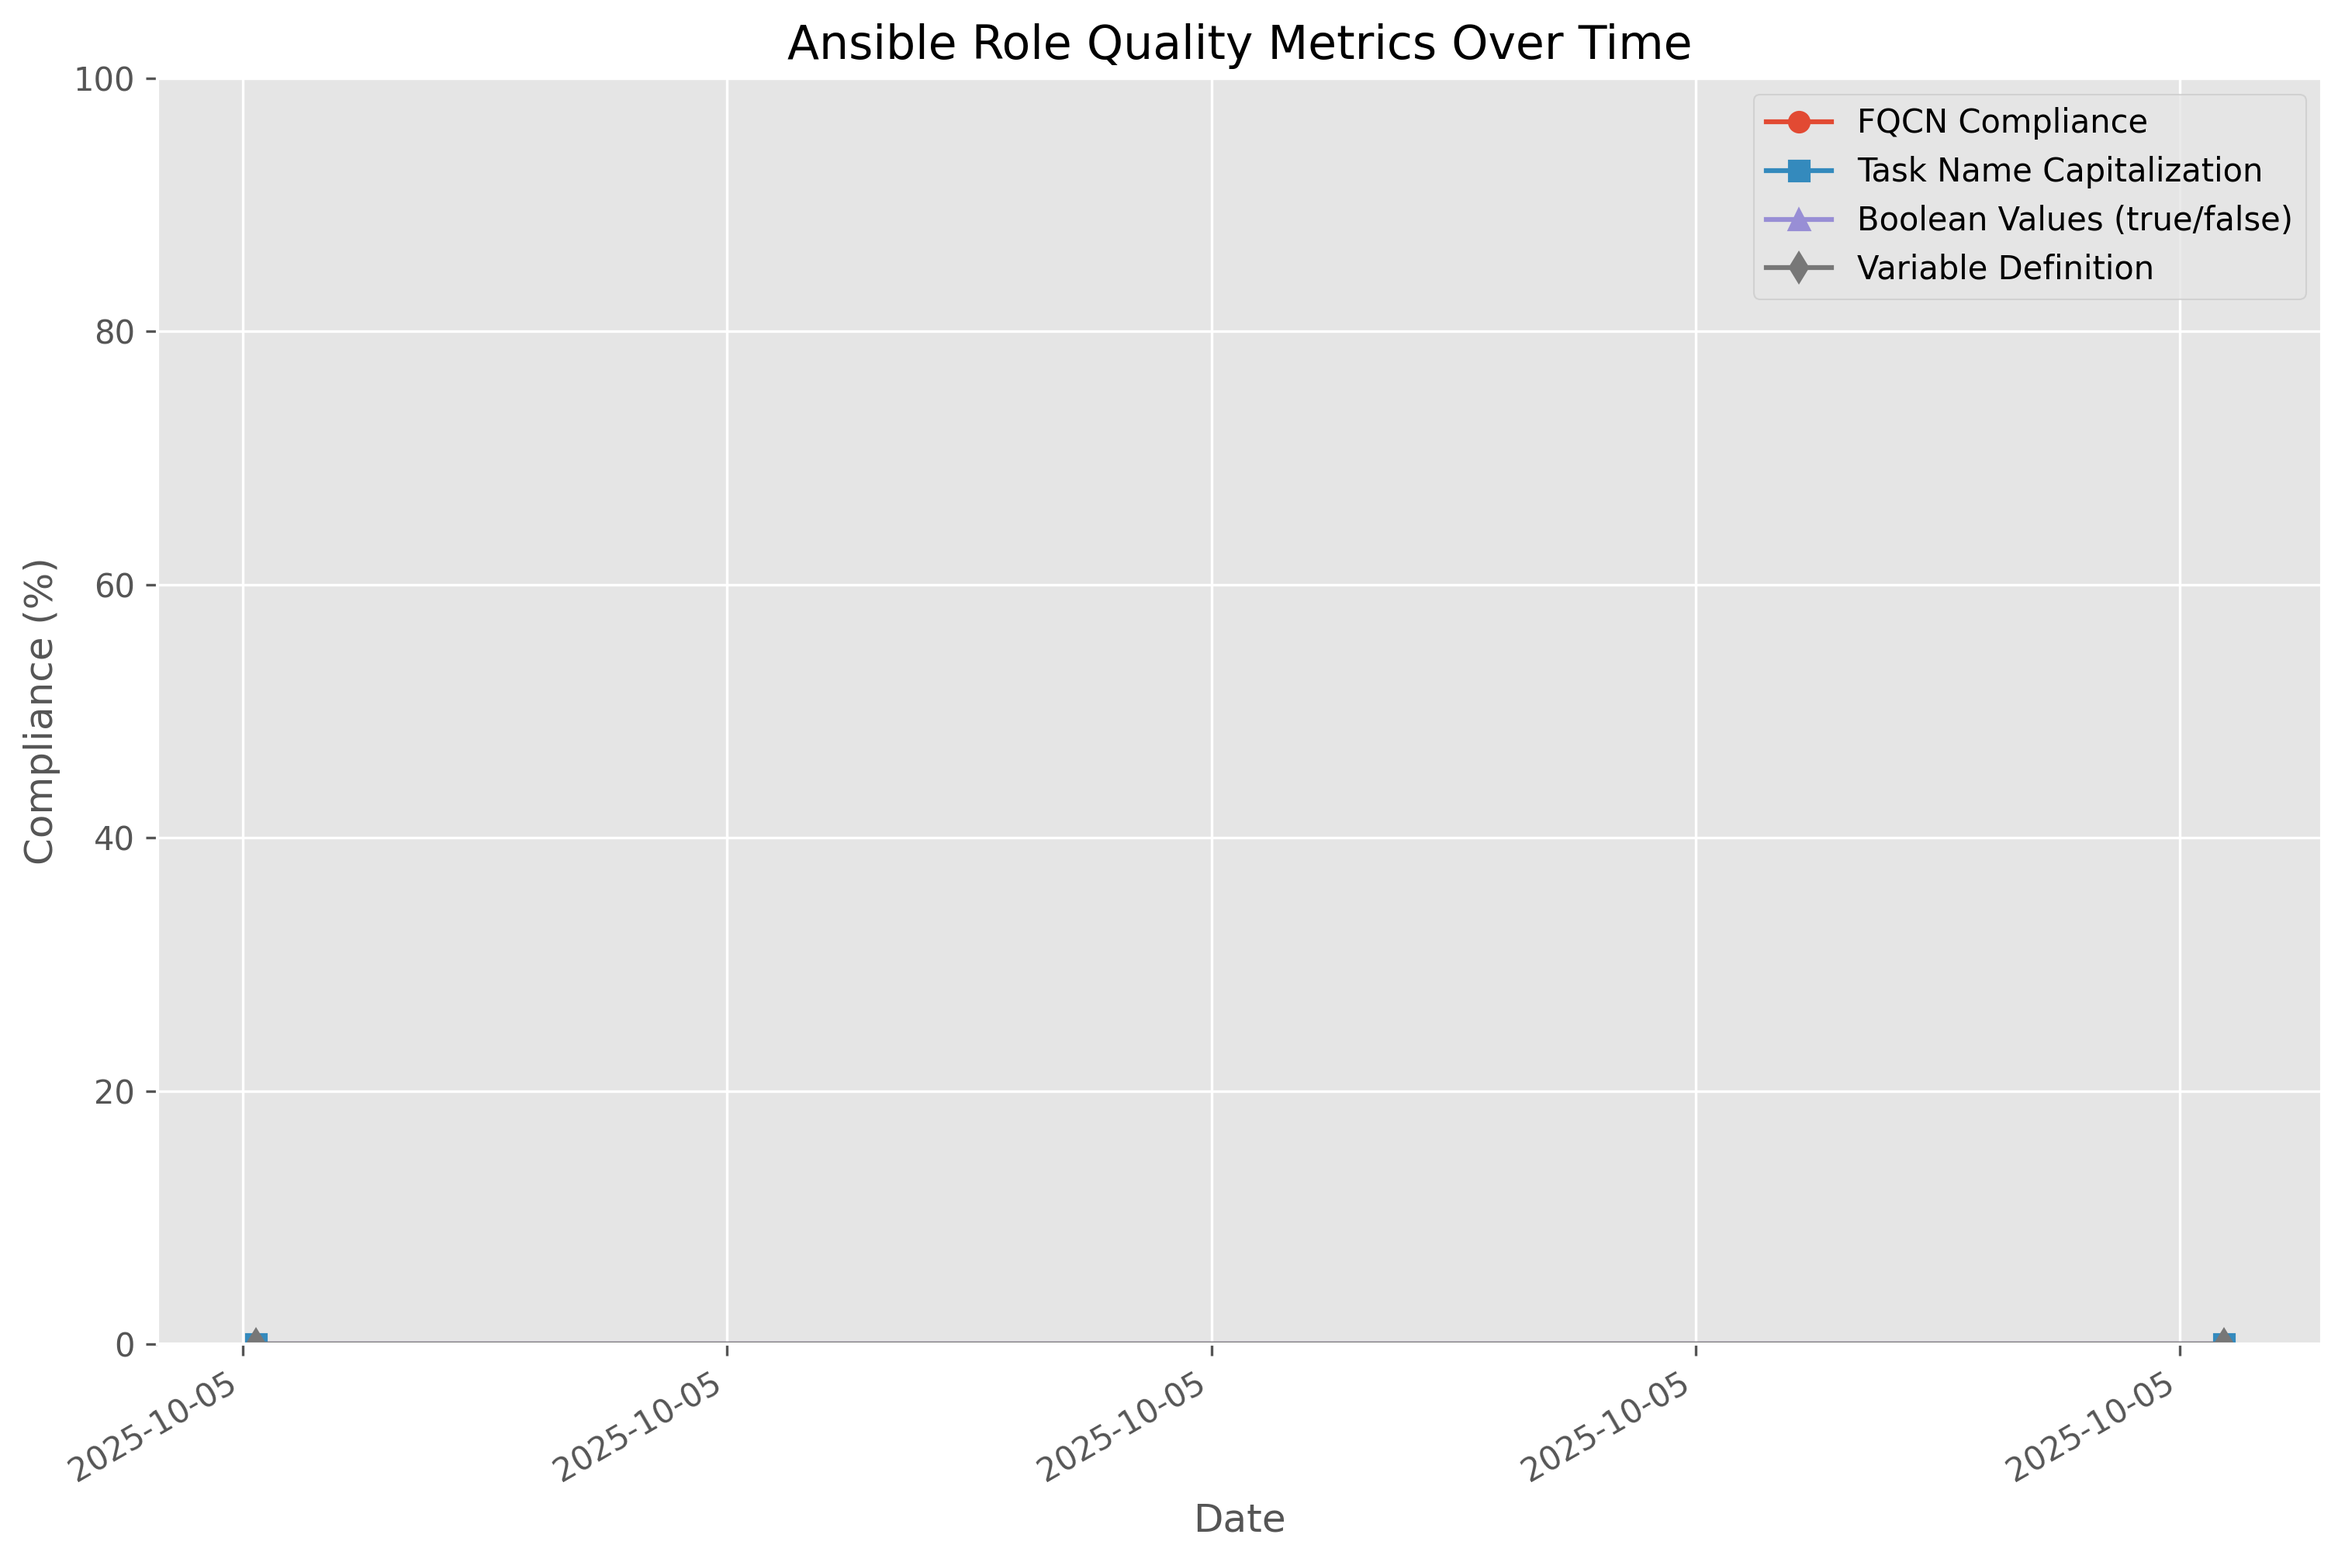
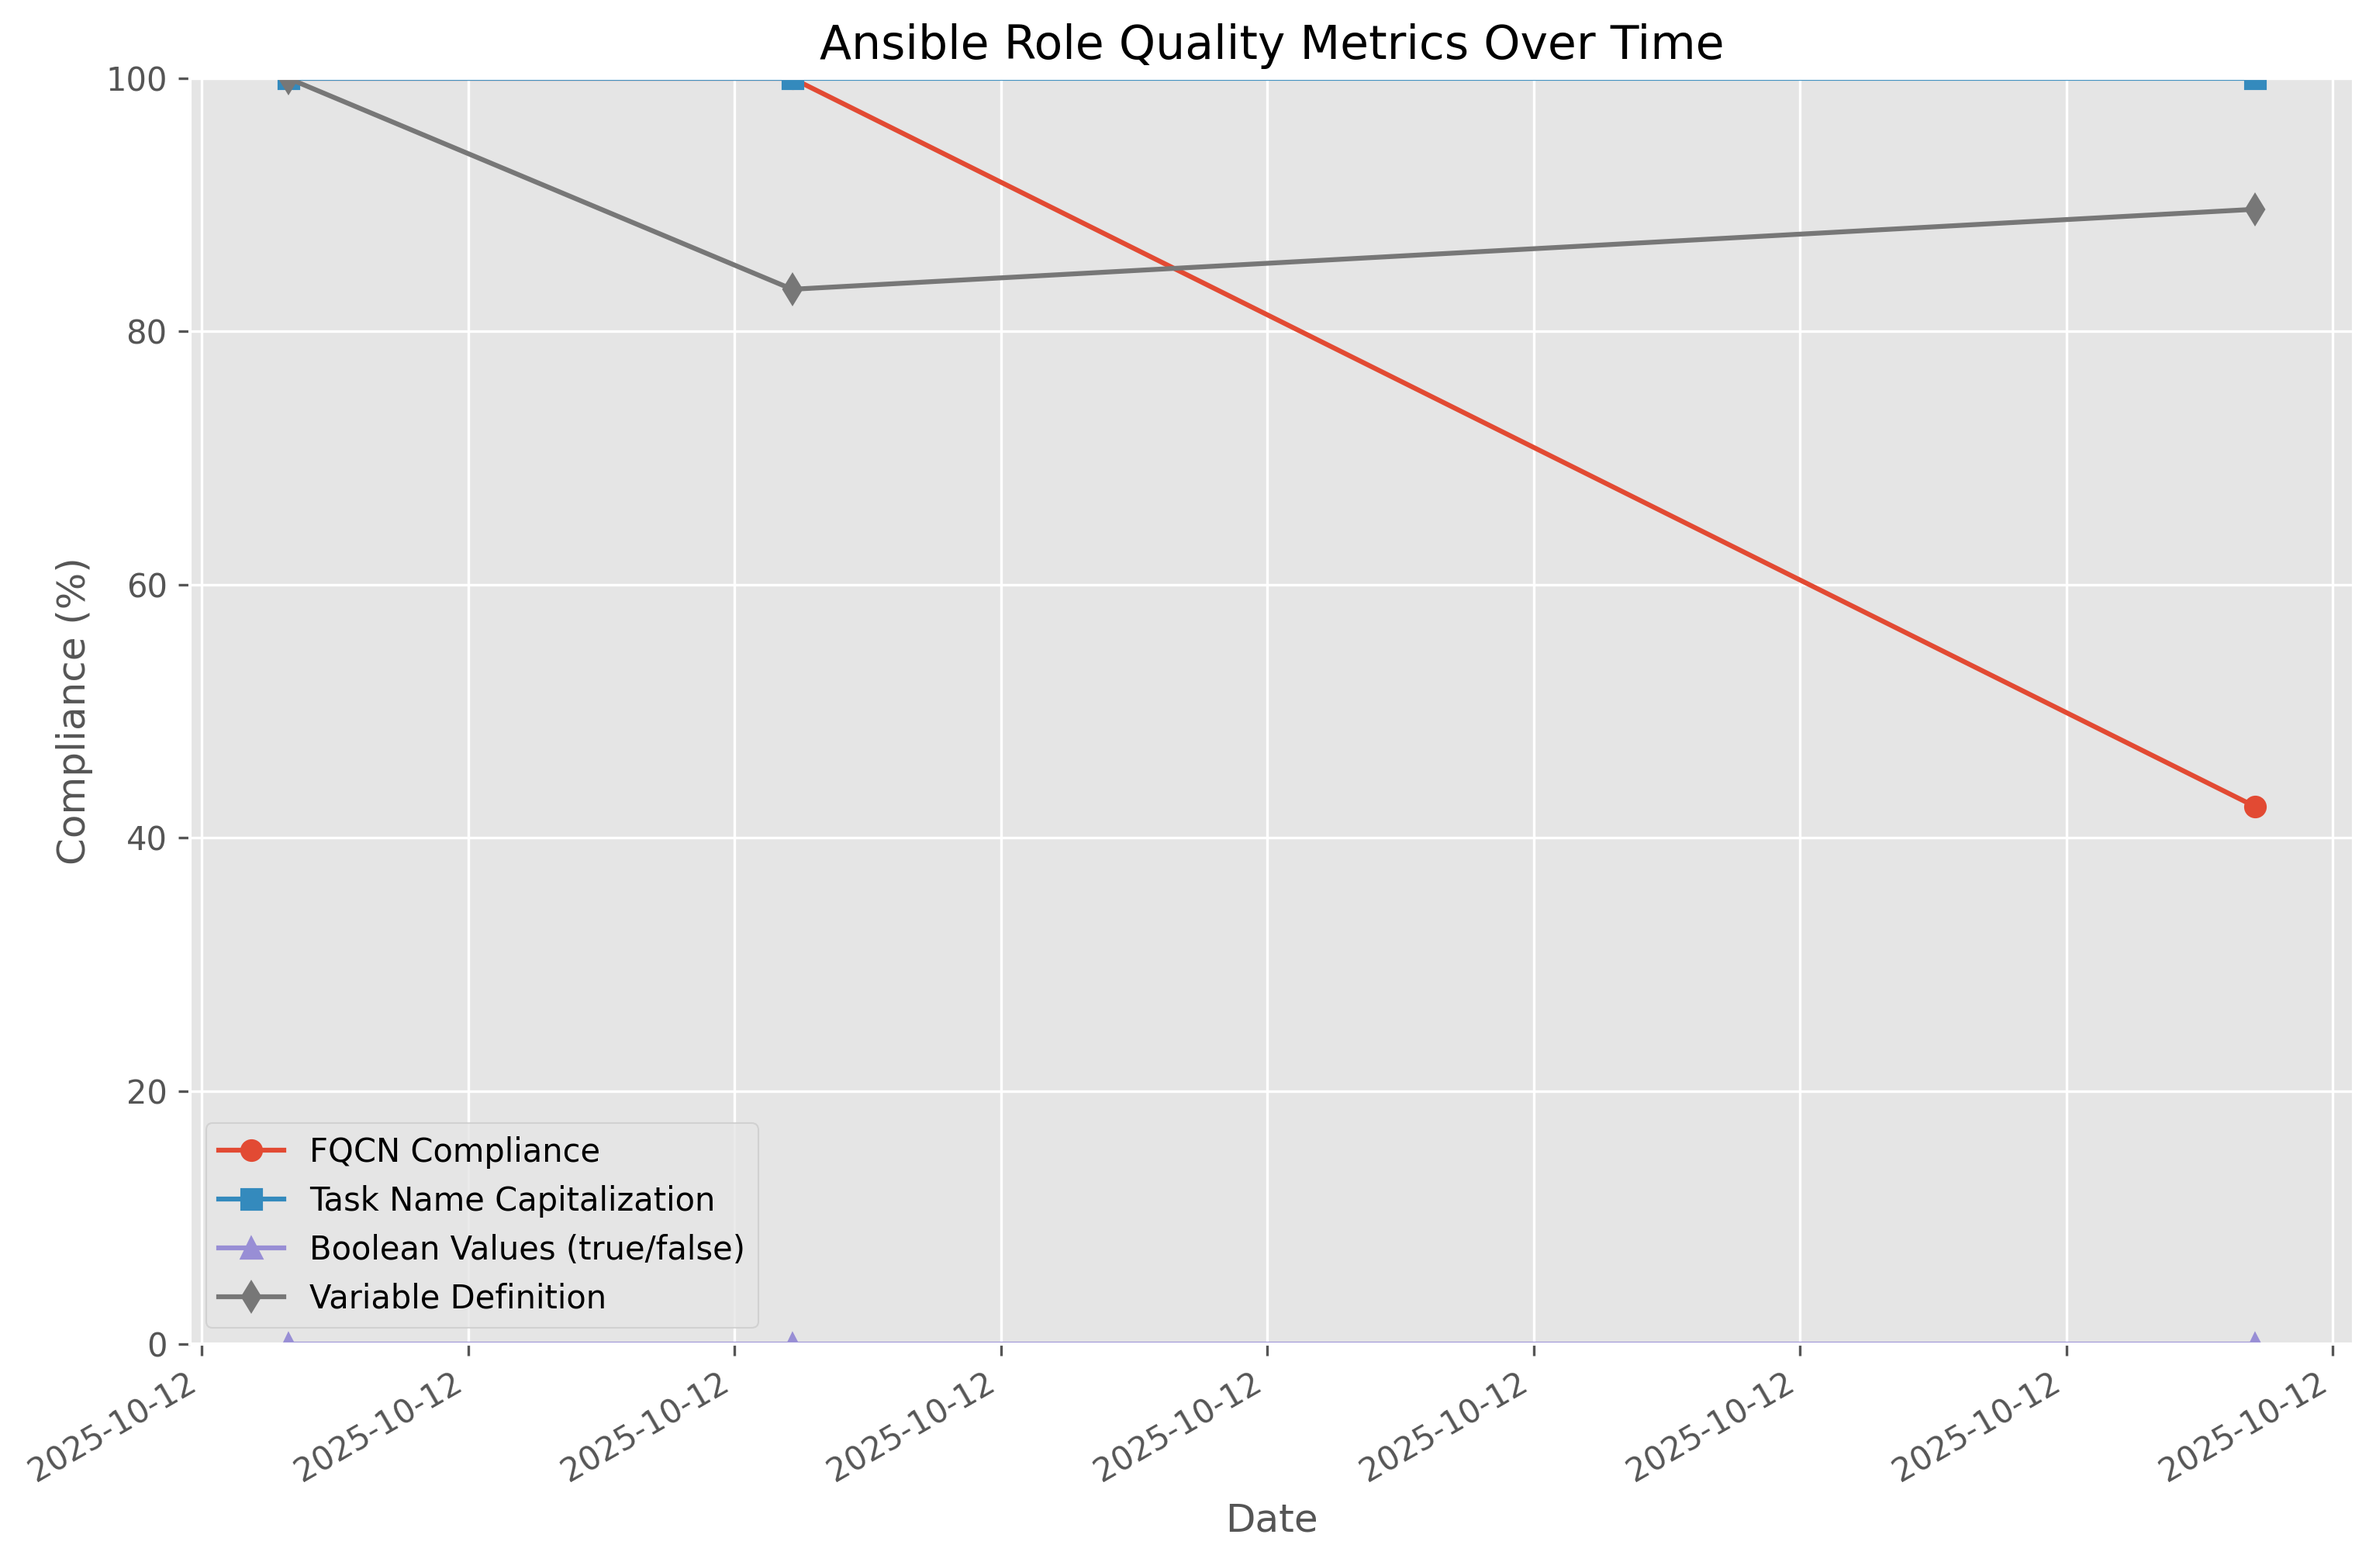
Update metrics (automated) 86381e575e3cb567ae7d61f2b827ec3665fe9a28

diff --git a/metrics/metrics_summary.md b/metrics/metrics_summary.md
@@ -1,15 +1,15 @@
 # Chef to Ansible Conversion Metrics
 
-Last updated: 2025-10-05 01:37:03
+Last updated: 2025-10-12 00:26:55
 
 ## Latest Compliance Metrics
 
 | Metric | Value |
 |--------|-------|
-| FQCN Compliance (%) | 0.00% |
-| Task Name Capitalization (%) | 0.00% |
+| FQCN Compliance (%) | 42.47% |
+| Task Name Capitalization (%) | 100.00% |
 | Boolean Values (true/false) (%) | 0.00% |
-| Variable Definition (%) | 0.00% |
+| Variable Definition (%) | 89.66% |
 
 ## Compliance Metrics Over Time
 
